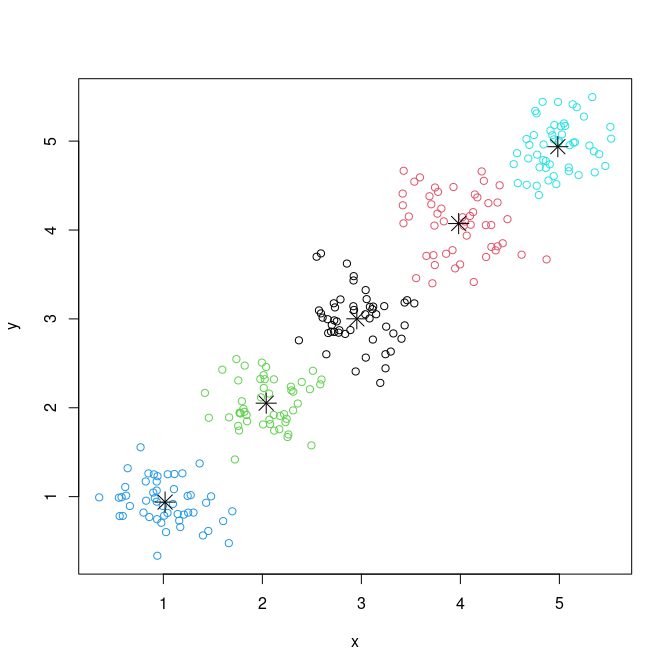
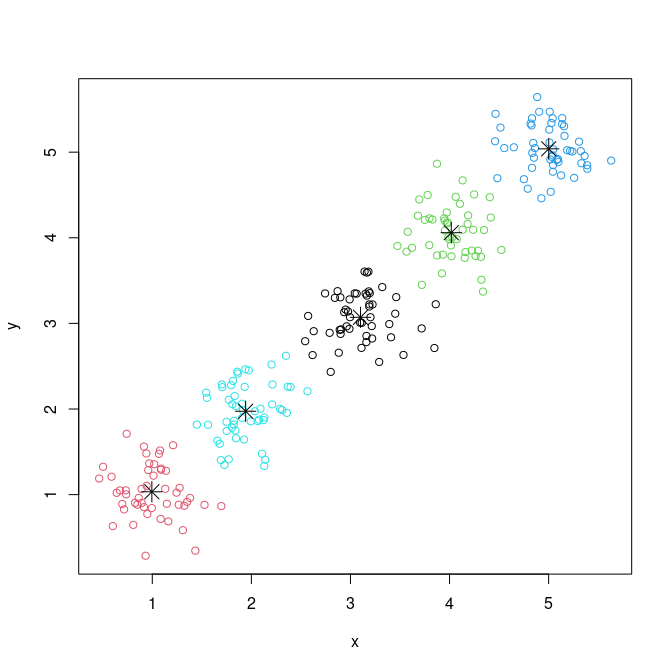
Fix@tibble force symbols (#8)
* fix: use tibble force symbols

* updated cran-commends

* removed c++11 specification and required R >= 4.0.0

* Removed C++11 specification also from Makevars

* updated news

diff --git a/src/KMeans.cpp b/src/KMeans.cpp
@@ -176,7 +176,7 @@ void KMeans::report_assignment(vector<string> &row_names, ostream &assign_tab) {
     assign_tab << "id\tclust";
     m_centers[0]->report_meta_data_header(assign_tab);
     assign_tab << "\n";
-    for (int i = 0; i < m_data.size(); i++) {
+    for (size_t i = 0; i < m_data.size(); i++) {
         assign_tab << row_names[i] << "\t" << m_assignment[i];
 
         m_centers[m_assignment[i]]->report_meta_data(assign_tab, m_data[i]);

diff --git a/src/TGLkmeans.cpp b/src/TGLkmeans.cpp
@@ -15,10 +15,10 @@ using namespace Rcpp;
 using namespace std;
 
 void vec2df(const vector<vector<float > >& vec, DataFrame& df){
-    unsigned long nc = vec.size();
+    size_t nc = vec.size();
     List list( nc );
 
-    for( int j=0; j<nc; j++){
+    for( size_t j=0; j<nc; j++){
         list[j] = wrap( vec[j].begin(), vec[j].end() );
     }
 

diff --git a/src/KMeansCenterMean.cpp b/src/KMeansCenterMean.cpp
@@ -50,7 +50,7 @@ void KMeansCenterMean::update_center_stats() {
 }
 
 void KMeansCenterMean::report(ostream &out) {
-    for (int i = 0; i < m_center.size(); i++) {
+    for (size_t i = 0; i < m_center.size(); i++) {
         if (i != 0) {
             out << "\t";
         }

diff --git a/src/KMeansCenterMeanPearson.cpp b/src/KMeansCenterMeanPearson.cpp
@@ -32,7 +32,7 @@ float KMeansCenterMeanPearson::dist(const vector<float> &x)
         return(0);
     }
     return(cov/sqrt(m_center_v * x_v));
-};
+}
 
 void KMeansCenterMeanPearson::update_center_stats()
 {

diff --git a/src/KMeansCenterMeanEuclid.cpp b/src/KMeansCenterMeanEuclid.cpp
@@ -19,4 +19,4 @@ float KMeansCenterMeanEuclid::dist(const vector<float> &x) {
         x_i++;
     }
     return (n > 0 ? sqrt(dist2) / n : REAL_MAX);
-};
+}

diff --git a/README.md b/README.md
@@ -10,7 +10,7 @@ coverage](https://codecov.io/gh/tanaylab/tglkmeans/branch/master/graph/badge.svg
 # tglkmeans - efficient implementation of kmeans++ algorithm
 
 This package provides R binding to a cpp implementation of the [kmeans++
-algorithm](<https://en.wikipedia.org/wiki/K-means%2B%2B>).
+algorithm](https://en.wikipedia.org/wiki/K-means%2B%2B).
 
 ## Installation
 
@@ -18,7 +18,7 @@ You can install the released version of **tglkmeans** using the
 following command:
 
 ``` r
-install.packages('tglkmeans')
+install.packages("tglkmeans")
 ```
 
 Or install the development version using:
@@ -37,73 +37,75 @@ library(tglkmeans)
 Create 5 clusters normally distributed around 1 to 5, with sd of 0.3:
 
 ``` r
-data <- rbind(matrix(rnorm(100, mean = 1, sd = 0.3), ncol = 2),
-              matrix(rnorm(100, mean = 2, sd = 0.3), ncol = 2),
-              matrix(rnorm(100, mean = 3, sd = 0.3), ncol = 2),
-              matrix(rnorm(100, mean = 4, sd = 0.3), ncol = 2),
-              matrix(rnorm(100, mean = 5, sd = 0.3), ncol = 2))
+data <- rbind(
+    matrix(rnorm(100, mean = 1, sd = 0.3), ncol = 2),
+    matrix(rnorm(100, mean = 2, sd = 0.3), ncol = 2),
+    matrix(rnorm(100, mean = 3, sd = 0.3), ncol = 2),
+    matrix(rnorm(100, mean = 4, sd = 0.3), ncol = 2),
+    matrix(rnorm(100, mean = 5, sd = 0.3), ncol = 2)
+)
 colnames(data) <- c("x", "y")
 head(data)
 #>              x         y
-#> [1,] 1.6039844 0.7245403
-#> [2,] 0.8581481 0.7696879
-#> [3,] 1.0442647 1.2516017
-#> [4,] 0.7696542 1.5545830
-#> [5,] 0.5586013 0.7805132
-#> [6,] 1.6963144 0.8346386
+#> [1,] 1.2757644 1.0798611
+#> [2,] 1.1304470 1.0676758
+#> [3,] 1.6919750 1.4032200
+#> [4,] 0.6404755 1.0208542
+#> [5,] 1.0784572 1.5153204
+#> [6,] 0.9321128 0.2859733
 ```
 
 Cluster using kmeans++:
 
 ``` r
-km <- TGL_kmeans(data, k=5, id_column = FALSE)
+km <- TGL_kmeans(data, k = 5, id_column = FALSE)
 km
 #> $cluster
 #>   1   2   3   4   5   6   7   8   9  10  11  12  13  14  15  16  17  18  19  20 
-#>   4   4   4   4   4   4   4   4   4   4   4   4   4   4   4   4   4   4   4   4 
+#>   2   2   5   2   2   2   2   2   2   2   2   2   5   2   2   2   2   2   2   2 
 #>  21  22  23  24  25  26  27  28  29  30  31  32  33  34  35  36  37  38  39  40 
-#>   4   4   4   4   4   4   4   4   4   4   4   4   4   4   4   4   4   4   4   4 
+#>   2   2   2   2   2   2   2   2   2   2   2   2   2   2   2   2   2   2   2   2 
 #>  41  42  43  44  45  46  47  48  49  50  51  52  53  54  55  56  57  58  59  60 
-#>   4   4   4   4   4   4   4   4   4   4   3   3   3   3   3   3   3   3   3   3 
+#>   2   2   2   2   2   2   2   2   2   2   5   5   5   5   5   5   5   5   5   5 
 #>  61  62  63  64  65  66  67  68  69  70  71  72  73  74  75  76  77  78  79  80 
-#>   3   3   3   3   3   3   3   3   3   3   3   3   3   3   3   3   3   3   3   3 
+#>   5   5   5   5   5   5   5   5   5   5   5   5   5   5   5   5   5   5   5   5 
 #>  81  82  83  84  85  86  87  88  89  90  91  92  93  94  95  96  97  98  99 100 
-#>   3   3   3   3   3   3   3   3   3   3   3   3   3   3   3   3   3   3   3   3 
+#>   5   5   5   5   5   5   5   5   5   5   5   5   5   5   5   5   5   5   5   5 
 #> 101 102 103 104 105 106 107 108 109 110 111 112 113 114 115 116 117 118 119 120 
-#>   1   1   1   1   1   1   1   1   1   2   1   1   1   1   1   1   1   1   1   1 
+#>   1   1   1   1   1   1   1   1   1   1   1   1   1   1   1   1   5   1   1   1 
 #> 121 122 123 124 125 126 127 128 129 130 131 132 133 134 135 136 137 138 139 140 
 #>   1   1   1   1   1   1   1   1   1   1   1   1   1   1   1   1   1   1   1   1 
 #> 141 142 143 144 145 146 147 148 149 150 151 152 153 154 155 156 157 158 159 160 
-#>   1   1   1   1   1   1   1   1   1   1   2   2   2   2   2   2   5   2   2   2 
+#>   1   1   1   1   1   1   1   1   1   1   3   3   3   3   3   3   3   3   3   3 
 #> 161 162 163 164 165 166 167 168 169 170 171 172 173 174 175 176 177 178 179 180 
-#>   2   2   2   2   2   2   2   2   2   2   2   2   2   2   2   2   2   2   2   2 
+#>   3   3   3   3   3   3   3   3   3   3   3   3   3   3   3   3   3   3   3   3 
 #> 181 182 183 184 185 186 187 188 189 190 191 192 193 194 195 196 197 198 199 200 
-#>   2   2   2   2   2   2   2   2   2   2   2   2   2   2   2   2   2   2   2   2 
+#>   3   3   3   3   3   3   3   3   1   3   3   3   3   3   3   3   3   3   1   3 
 #> 201 202 203 204 205 206 207 208 209 210 211 212 213 214 215 216 217 218 219 220 
-#>   5   5   5   5   5   5   5   5   5   5   5   5   5   5   5   5   5   5   5   5 
+#>   4   4   4   4   4   4   4   4   4   4   4   4   4   4   4   4   4   4   4   4 
 #> 221 222 223 224 225 226 227 228 229 230 231 232 233 234 235 236 237 238 239 240 
-#>   5   5   5   5   5   5   5   5   5   5   5   5   5   5   5   5   5   5   5   5 
+#>   4   4   4   4   4   4   4   4   4   4   4   4   4   4   4   4   4   4   4   4 
 #> 241 242 243 244 245 246 247 248 249 250 
-#>   5   5   5   5   5   5   5   5   5   5 
+#>   4   4   4   4   4   4   4   4   4   4 
 #> 
 #> $centers
-#>             x         y
-#> [1,] 2.954139 3.0003254
-#> [2,] 3.982430 4.0727830
-#> [3,] 2.038905 2.0517421
-#> [4,] 1.017625 0.9381206
-#> [5,] 4.984231 4.9377022
+#>              x        y
+#> [1,] 3.1011603 3.071401
+#> [2,] 0.9955785 1.033387
+#> [3,] 4.0175261 4.059672
+#> [4,] 5.0009804 5.039295
+#> [5,] 1.9421040 1.973763
 #> 
 #> $size
 #>  1  2  3  4  5 
-#> 49 50 50 50 51
+#> 51 48 48 50 53
 ```
 
 Plot the results:
 
 ``` r
 plot(data, col = km$cluster)
-points(km$centers, pch=8, cex=2)
+points(km$centers, pch = 8, cex = 2)
 ```
 
 ![](README-clustering-1.png)<!-- -->
@@ -115,5 +117,5 @@ the [usage](https://tanaylab.github.io/tglkmeans/articles/usage.html)
 section in the site.
 
 ``` r
-browseVignettes('usage') 
+browseVignettes("usage")
 ```

diff --git a/NEWS.md b/NEWS.md
@@ -1,3 +1,11 @@
+# tglkmeans 0.3.8
+
+* Removed C++11 specification + require R >= 4.0.0.
+
+# tglkmeans 0.3.6
+
+* Fixed error on debian systems. 
+
 # tglkmeans 0.3.5
 
 * Changed errors from cpp to 1 based indexing.
@@ -19,5 +27,5 @@
 
 # tglkmeans 0.3.0
 
-* Removed bootstrapping (it was causing a lot of problems in travis testing and almost wasn't used.
+* Removed bootstrapping (it was causing a lot of problems in travis testing and almost wasn't used).
 * Added a `NEWS.md` file to track changes to the package.

diff --git a/cran-comments.md b/cran-comments.md
@@ -2,7 +2,7 @@
 
 0 errors | 0 warnings | 0 notes
 
-# Fix
+# Resubmission
 
-* loading the package failed on machines with a single core. 
+* Removed C++11 specification also from Makevars. 
 
